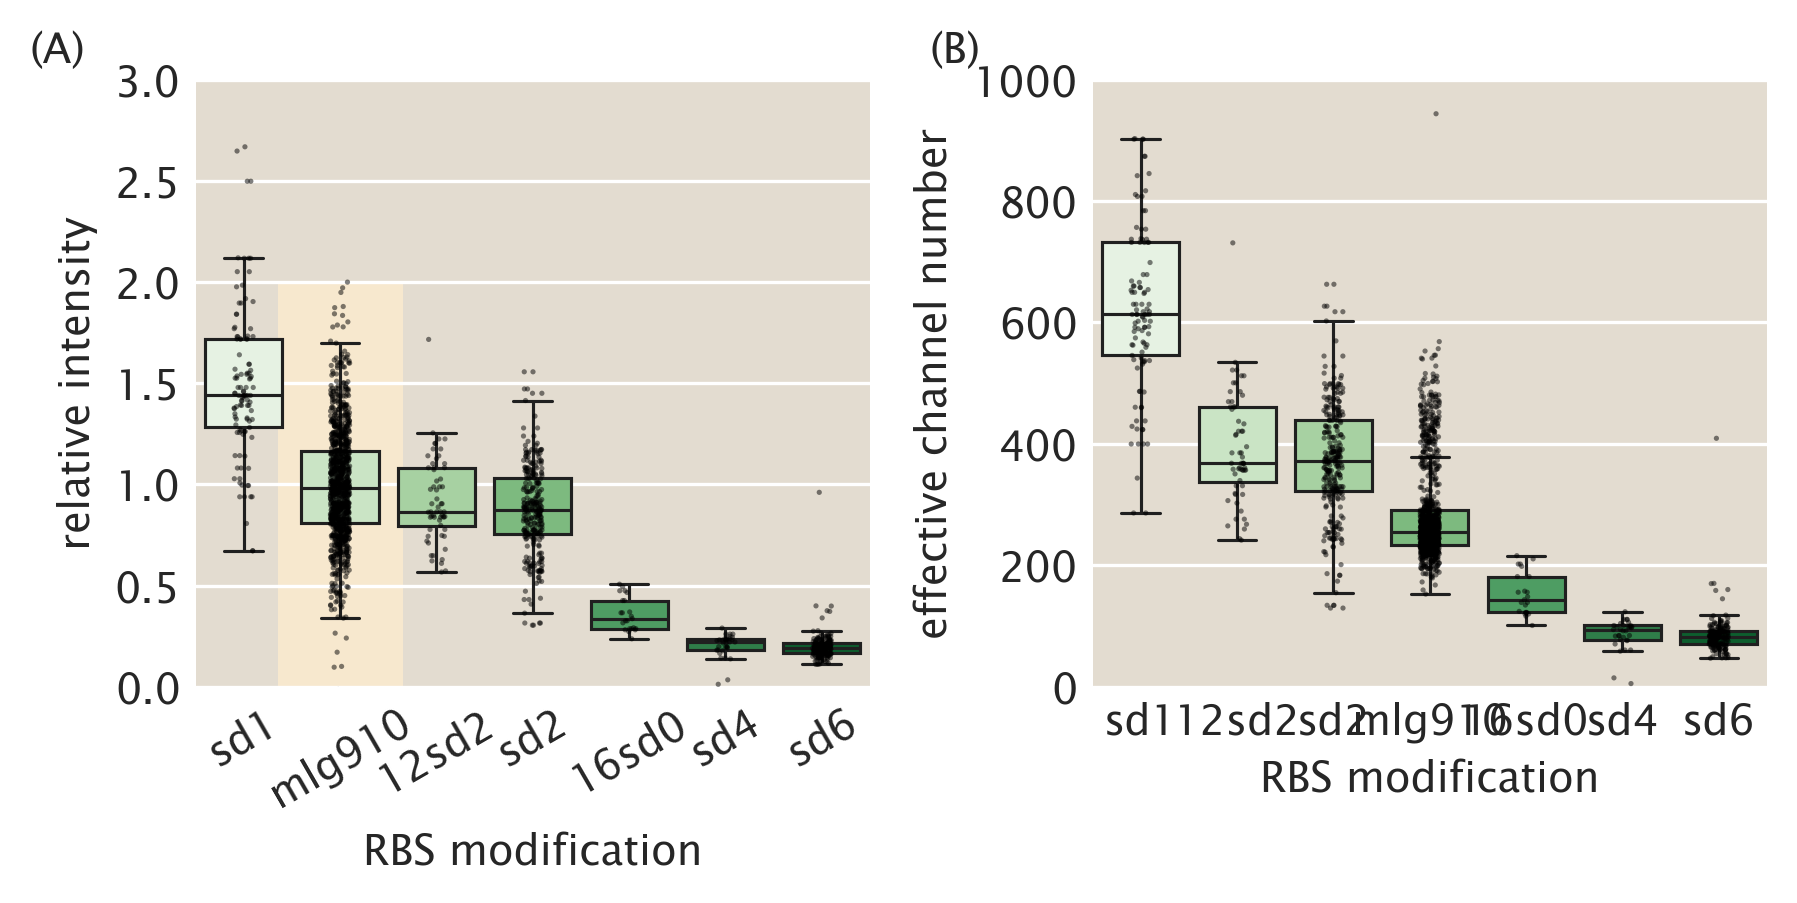
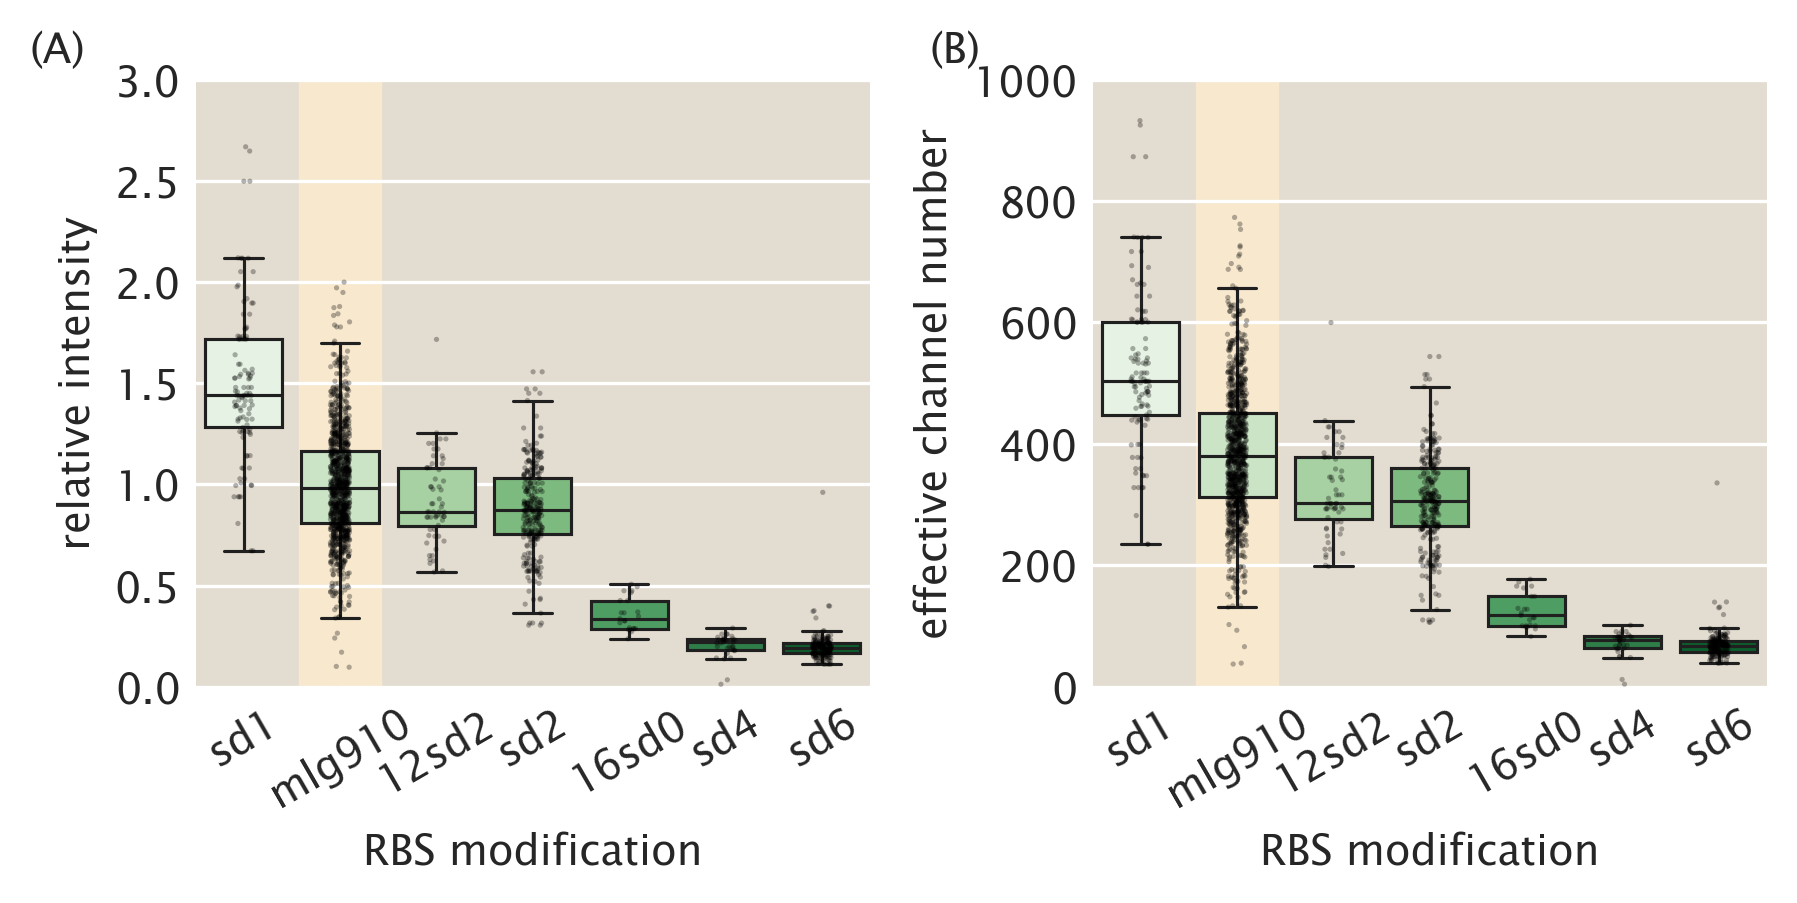
Restructuring and reran maintext figures

diff --git a/code/figs/fig2.py b/code/figs/fig2.py
@@ -6,7 +6,7 @@ import matplotlib.pyplot as plt
 import seaborn as sns
 import sys
 import glob
-sys.path.insert(0, '../')
+sys.path.insert(0, '../../')
 import mscl.plotting
 import mscl.stats
 
@@ -20,10 +20,11 @@ MEAN_CAL = 2695
 data = pd.read_csv('../../data/csv/mscl_survival_data.csv')
 mlg910_files = glob.glob('../processing/*mlg910*/output/*.csv')
 mlg910 = pd.concat([pd.read_csv(f, comment='#') for f in mlg910_files])
-mlg910.loc[mlg910['date']==20180410, 'area'] *= 0.5
-mlg910['scaled_intensity'] = (mlg910['intensity'] - mlg910['mean_bg']) * MAX_EXP / mlg910['exposure_ms']
+mlg910.loc[mlg910['date'] == 20180410, 'area'] *= 0.5
+mlg910['scaled_intensity'] = (
+    mlg910['intensity'] - mlg910['mean_bg']) * MAX_EXP / mlg910['exposure_ms']
 mlg910['experiment'] = 'cal'
-mlg910['effective_channels'] = mlg910['intensity'] * MEAN_AREA / MEAN_CAL
+mlg910['effective_channels'] = mlg910['scaled_intensity'] * MEAN_AREA / MEAN_CAL
 data['experiment'] = 'shock'
 
 data = pd.concat([data, mlg910], ignore_index=True)
@@ -38,15 +39,14 @@ fig, ax = plt.subplots(1, 2, figsize=(6, 3))
 
 
 # Plot the rescaled intensity
-_ = sns.boxplot(data['rbs'], data['scaled_intensity'] / data[data['rbs'] == 'mlg910']['scaled_intensity'].mean(), order=intensity_order,
-                fliersize=0, linewidth=0.75, palette='Greens', ax=ax[0])
-_ = sns.stripplot(data['rbs'], data['scaled_intensity'] / data[data['rbs'] == 'mlg910']['scaled_intensity'].mean(), order=intensity_order,
-                  jitter=True, marker='.', size=2.5, alpha=0.5, color='k',
-                  ax=ax[0])
-ax[0].vlines(1, 0, 2, color=colors['pale_yellow'], lw=30, zorder=0, alpha=0.75)
+_ = sns.boxplot(data['rbs'], data['scaled_intensity'] / data[data['rbs'] == 'mlg910']['scaled_intensity'].mean(), 
+                order=intensity_order, fliersize=0, linewidth=0.75, palette='Greens', ax=ax[0])
+_ = sns.stripplot(data['rbs'], data['scaled_intensity'] / data[data['rbs'] == 'mlg910']['scaled_intensity'].mean(), 
+                  order=intensity_order, jitter=True, marker='.', size=2.5, alpha=0.3, color='k', ax=ax[0])
+ax[0].vlines(1, 0, 3, color=colors['pale_yellow'], lw=20, zorder=0, alpha=0.75)
+ax[1].vlines(1, 0, 1000, color=colors['pale_yellow'], lw=20, zorder=0, alpha=0.75)
 
 # Plot the channel number
-
 channel_order = data.groupby(
     ['rbs'])['effective_channels'].mean().sort_values()[::-1].index
 
@@ -55,7 +55,7 @@ _ = sns.boxplot('rbs', 'effective_channels', data=data,
                 palette='Greens', ax=ax[1])
 _ = sns.stripplot('rbs', 'effective_channels', data=data,
                   order=channel_order, jitter=True, marker='.', size=2.5,
-                  alpha=0.5, color='k', ax=ax[1], zorder=1001)
+                  alpha=0.3, color='k', ax=ax[1], zorder=1001)
 
 
 # Add the marker for the standard candle strain
@@ -70,9 +70,9 @@ ax[1].set_xlabel('RBS modification', fontsize=10)
 ax[0].yaxis.set_tick_params(labelsize=10)
 ax[1].yaxis.set_tick_params(labelsize=10)
 ax[0].xaxis.set_tick_params(labelsize=10, rotation=30)
-ax[1].xaxis.set_tick_params(labelsize=10)
+ax[1].xaxis.set_tick_params(labelsize=10, rotation=30)
 fig.text(0.01, 0.95, '(A)', fontsize=10)
 fig.text(0.51, 0.95, '(B)', fontsize=10)
 plt.tight_layout()
-plt.savefig('../figs/fig{}.pdf'.format(FIG_NO), bbox_inches='tight')
-plt.savefig('../figs/fig{}.png'.format(FIG_NO), bbox_inches='tight')
+plt.savefig('../../figs/fig{}.pdf'.format(FIG_NO), bbox_inches='tight')
+plt.savefig('../../figs/fig{}.png'.format(FIG_NO), bbox_inches='tight')

diff --git a/code/figs/figSX_posterior_distributions.py b/code/figs/figSX_posterior_distributions.py
@@ -1,0 +1,71 @@
+# %%
+# -*- coding: utf-8 -*-
+import numpy as np
+import matplotlib.pyplot as plt
+import matplotlib.gridspec as gridspec
+import seaborn as sns
+import pandas as pd
+import sys
+sys.path.insert(0, '../../')
+import mscl.plotting
+import mscl.stats
+import scipy.stats
+colors = mscl.plotting.set_plotting_style()
+FIG_NO = 'X1'
+
+# Load in the MCMC data.
+data = pd.read_csv('../../data/csv/complete_mcmc_traces.csv')
+
+# Define model contants.
+REP = 6
+
+# Set up the figure canvas and format
+fig, ax = plt.subplots(1, 2, figsize=(6, 4), sharey=True)
+ax[0].set_xlabel('calibration factor [a.u./channel]')
+ax[1].set_xlabel('average cell area [µm$^2$]')
+ax[0].set_ylabel('$\propto$ probability')
+ax[1].set_ylabel('$\propto$ probability')
+fig.text(0.0, 1.05, '(A)', fontsize=8)
+fig.text(0.55, 1.05, '(B)', fontsize=8)
+for a in ax:
+    a.set_yticks([])
+
+
+# Add a fake legend
+ax[0].plot([], [], color=colors['blue'], lw=3, label='replicate parameter posterior probability')
+ax[0].plot([], [], color=colors['red'], lw=3, label='hyperparameter posterior probability')
+ax[0].legend(bbox_to_anchor=(1.05, 1.15), fontsize=8)
+# Evaluate the KDE for the low-level parameters
+alpha_range = np.linspace(2000, 6000, 500)
+area_range = np.linspace(4, 6.5, 500)
+for i in range(6):
+    # Evaluate the KDE and normalize.
+    alpha_kernel = scipy.stats.gaussian_kde(data['alpha__{}'.format(i)])
+    area_kernel = scipy.stats.gaussian_kde(data['avg_A__{}'.format(i)])
+    alpha_fit = alpha_kernel(alpha_range)
+    area_fit = area_kernel(area_range)
+    alpha_fit *= np.max(alpha_fit)**-1
+    area_fit *= np.max(area_fit)**-1
+
+    # Plot the distributions.
+    _ = ax[0].plot(alpha_range, alpha_fit, color=colors['blue'])
+    _ = ax[1].plot(area_range, area_fit, color=colors['blue'])
+    _ = ax[0].fill_between(alpha_range, alpha_fit, alpha=0.2, color=colors['light_blue'])
+    _ = ax[1].fill_between(area_range, area_fit, alpha=0.2, color=colors['light_blue'])
+
+
+# Plot the hyper parameters
+hyper_alpha_kernel = scipy.stats.gaussian_kde(data['hyper_alpha_mu'])
+hyper_area_kernel = scipy.stats.gaussian_kde(data['hyper_A_mu'])
+hyper_alpha_fit = hyper_alpha_kernel(alpha_range)
+hyper_area_fit = hyper_area_kernel(area_range)
+hyper_alpha_fit *= np.max(hyper_alpha_fit)**-1
+hyper_area_fit *= np.max(hyper_area_fit)**-1
+_ = ax[0].plot(alpha_range, hyper_alpha_fit, color=colors['red'], lw=3) 
+_ = ax[0].fill_between(alpha_range, hyper_alpha_fit, color=colors['red'], alpha=0.4, zorder=100) 
+_ = ax[1].plot(area_range, hyper_area_fit, color=colors['red'], lw=3) 
+_ = ax[1].fill_between(area_range, hyper_area_fit, color=colors['red'], alpha=0.4, zorder=100) 
+
+plt.tight_layout()
+plt.savefig('../../figs/figS{}.png'.format(FIG_NO), bbox_inches='tight', dpi=300)
+plt.savefig('../../figs/figS{}.pdf'.format(FIG_NO), bbox_inches='tight', dpi=300)

diff --git a/code/figs/figSX_cell_size_v_channel.py b/code/figs/figSX_cell_size_v_channel.py
@@ -1,3 +1,4 @@
+# %%
 # -*- coding: utf-8 -*-
 import numpy as np
 import matplotlib.pyplot as plt
@@ -13,14 +14,7 @@ FIG_NO = 2
 # -------------
 data = pd.read_csv('../../data/csv/mscl_survival_data.csv')
 
-# Examine only the shock data.
-shock_data = data[data['experiment'] == 'shock']
-
-# Look only at MLG 910 for channel counts.
-mlg910 = data[data['rbs'] == 'mlg910']
-cal = np.mean(mlg910['scaled_intensity'] * mlg910['area']) / 348
-
-grouped = shock_data.groupby('survival')
+grouped = data.groupby('survival')
 
 # Set up the axis
 fig, ax = plt.subplots(1, 2, figsize=((6, 3)))
@@ -46,12 +40,12 @@ fig.text(0.5, 0.92, '(C)', fontsize=8)
 color_dict = {True: colors['green'], False: colors['purple']}
 label_dict = {True: 'survival', False: 'death'}
 for g, d in grouped:
-    _ = ax[0].plot(d['area'], d['scaled_intensity'] * d['area'] / cal, '.',
+    _ = ax[0].plot(d['area'], d['scaled_intensity'] * d['area'] / d['calibration_factor'], '.',
                    color=color_dict[g], ms=4, alpha=0.5, label=label_dict[g])
     _ = ax[1].plot(d['area'], d['effective_channels'], '.', color=color_dict[g],
                    ms=4, alpha=0.5, label=label_dict[g])
 _ = ax[0].legend(fontsize=8)
 
 plt.tight_layout()
-plt.savefig('../../figs/figSX{}.svg'.format(FIG_NO), bbox_inches='tight')
-# plt.savefig('../figs/figSX{}.png'.format(FIG_NO), bbox_inches='tight')
+# plt.savefig('../../figs/figSX{}.svg'.format(FIG_NO), bbox_inches='tight')
+plt.savefig('../figs/figSX{}.png'.format(FIG_NO), bbox_inches='tight')

diff --git a/code/figs/fig3.py b/code/figs/fig3.py
@@ -14,7 +14,7 @@ FIG_NO = 3
 
 # Load in the data and isolate to onlly the shock experiments.
 shock_data = pd.read_csv('../../data/csv/mscl_survival_data.csv')
-# shock_data = data[data['experiment'] == 'shock'].copy()
+
 
 # Define the bins for the range of channels  and colors
 bins = np.arange(0, 1100, 30)
@@ -48,6 +48,7 @@ for g, d in grouped:
     x, y = mscl.stats.ecdf(d['effective_channels'])
     xmin = sorted_d['maximum_channels'] 
     xmax = sorted_d['minimum_channels'] 
+    print(g, np.min(x))
     _ = ax[0].hist(d['effective_channels'], bins=bins, color=color_dict[g], alpha=alpha_dict[g],
                    edgecolor='k', linewidth=0.75, normed=True, label=label_dict[g],
                    zorder=zorder_dict[g])
@@ -70,15 +71,13 @@ ax[1].fill_betweenx(np.linspace(-0, 1.01, 300), -10,
                     color=colors['light_red'],
                     alpha=0.75)
 
-
 # Add the legend and clean up the figure.
 ax[0].legend(fontsize=8)
 ax[1].legend(fontsize=8, loc='lower right')
-
 ax[0].set_ylim([0, 0.011])
 ax[1].set_ylim([-0.01, 1.01])
 ax[1].set_xlim([-10, 850])
 ax[0].set_xlim([-10, 850])
 plt.tight_layout()
-plt.savefig('../../figs/fig{}_dists.pdf'.format(FIG_NO))
-plt.savefig('../../figs/fig{}_dists.png'.format(FIG_NO))
+plt.savefig('../../figs/fig{}.pdf'.format(FIG_NO))
+plt.savefig('../../figs/fig{}.png'.format(FIG_NO))
